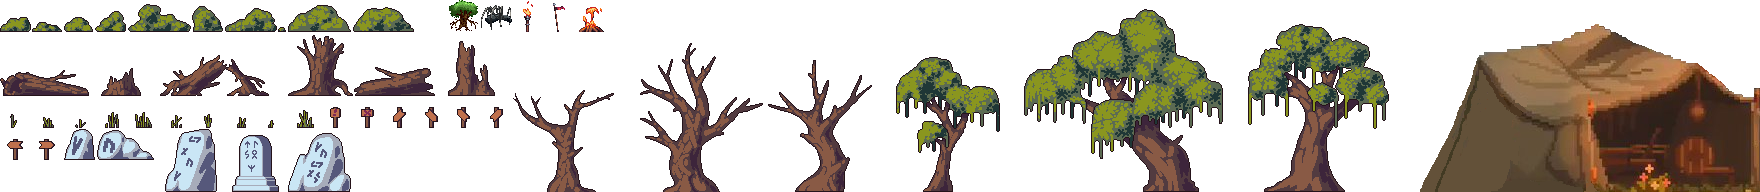
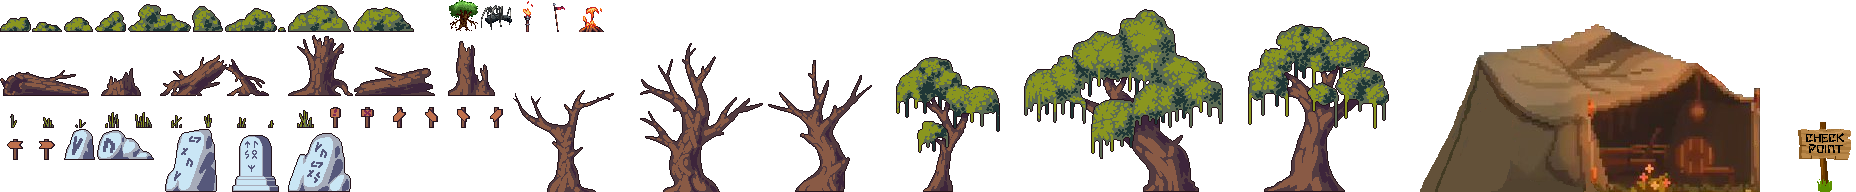
add graphics

diff --git a/src/entities/Beholder.js b/src/entities/Beholder.js
@@ -1,0 +1,7 @@
+// @ts-check
+class Beholder extends Phaser.GameObjects.Sprite {
+
+
+}
+
+export default Beholder;
